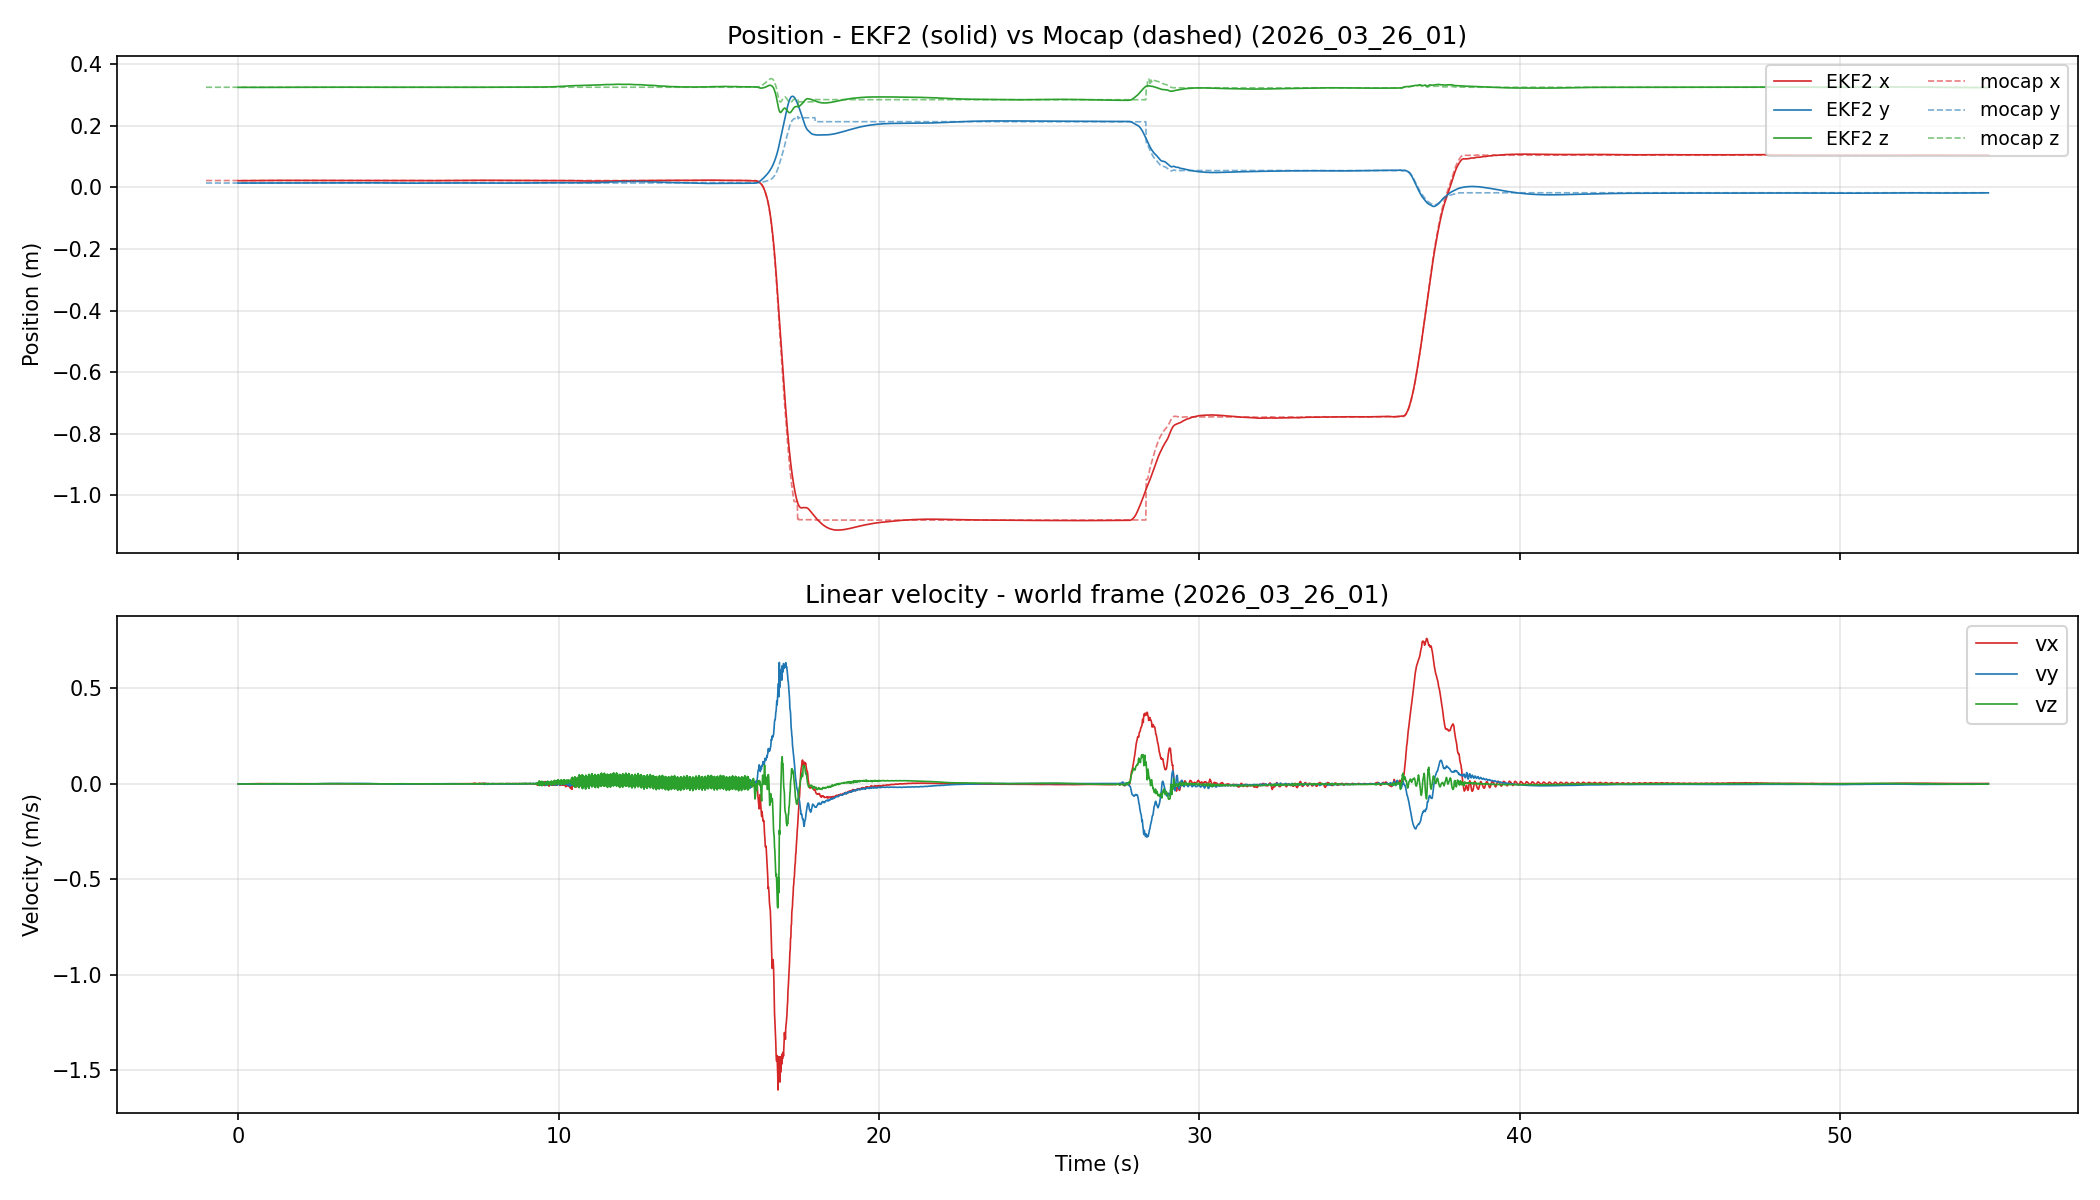
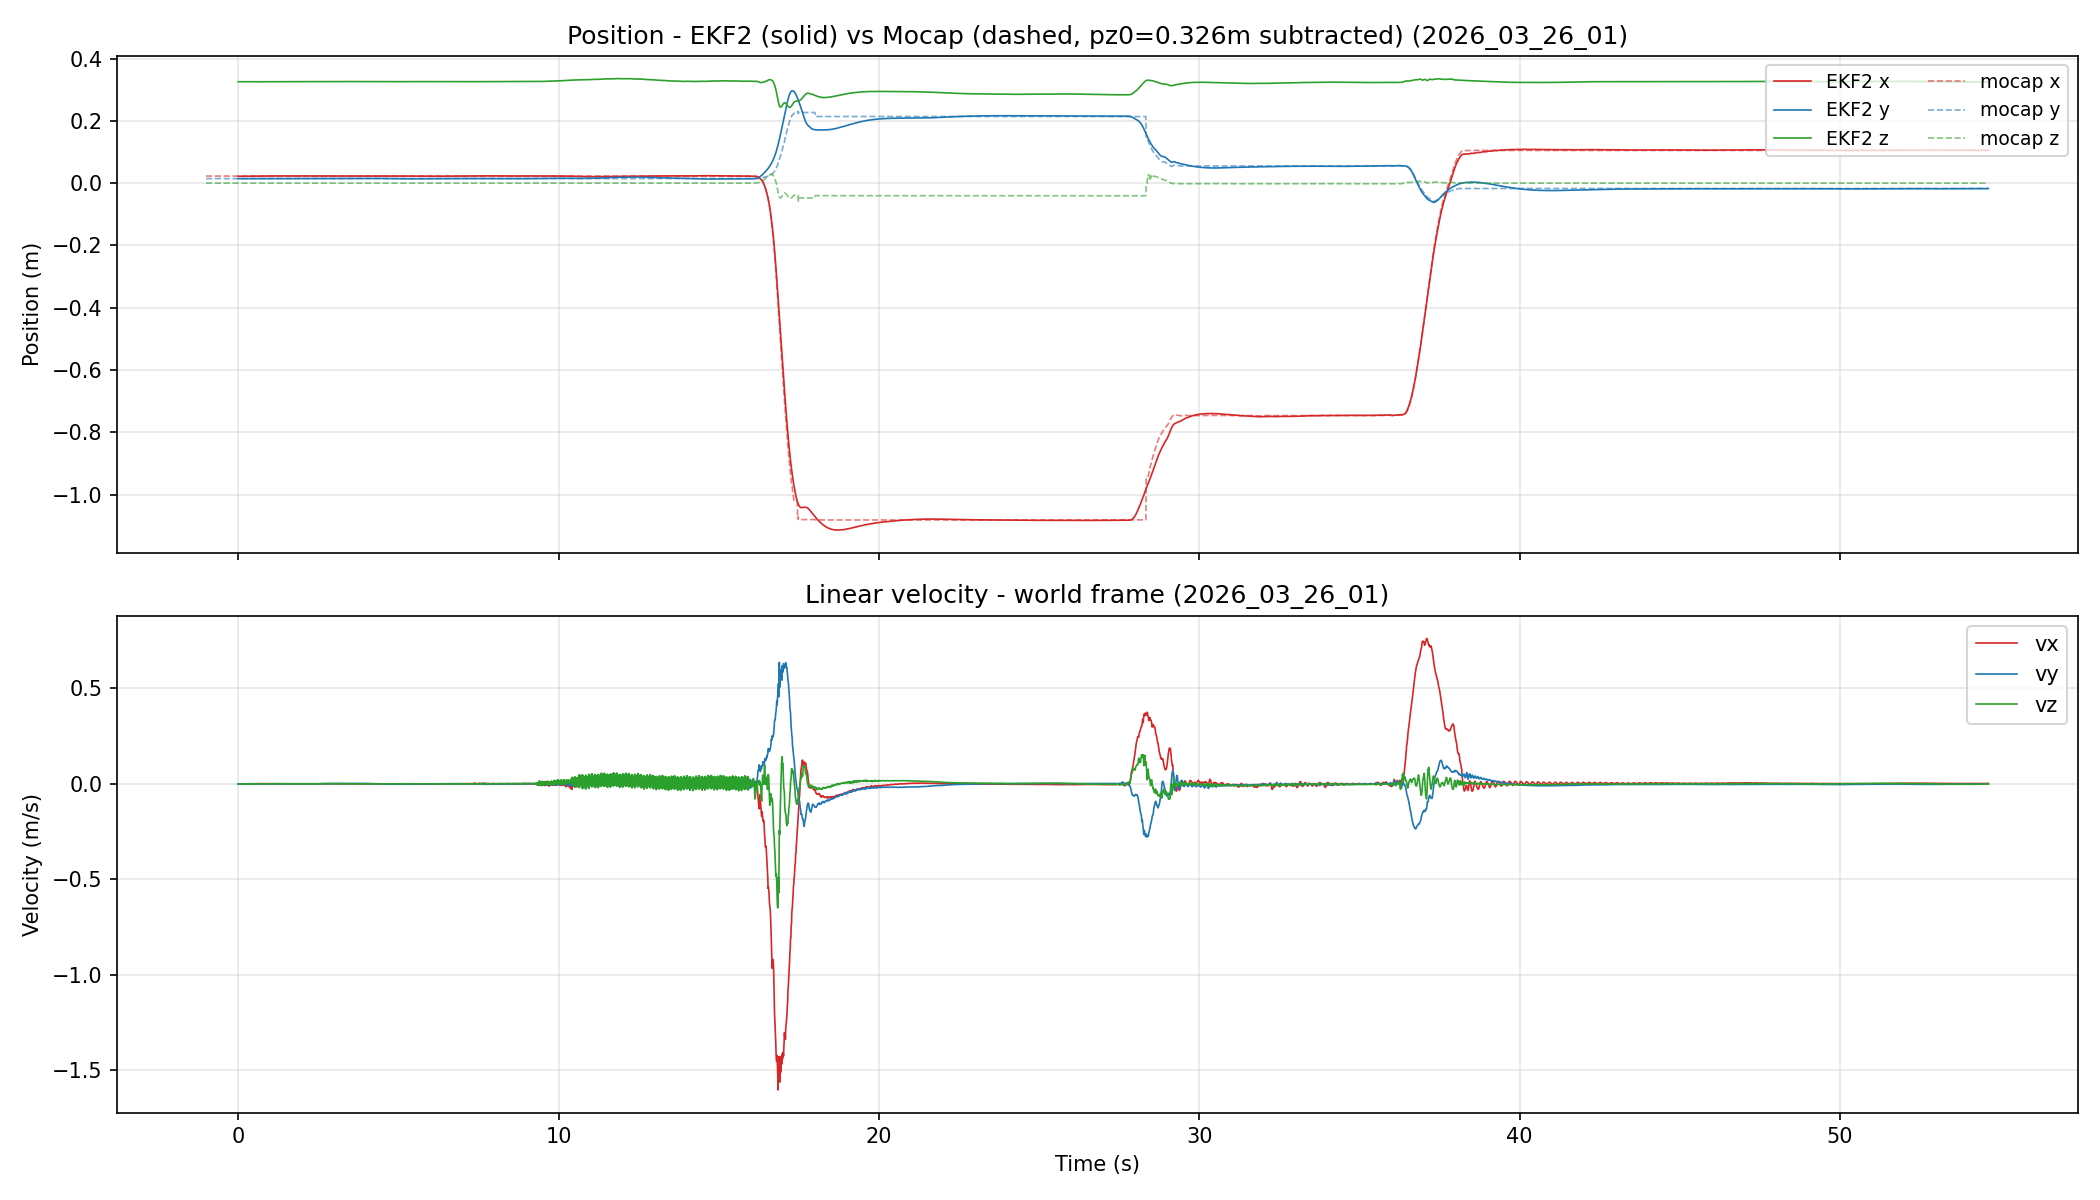
Update 03/26 plots: subtract mocap pz offset, add cmd+RPY combined, add HGDO
- Position: mocap pz initial offset subtracted (~0.326m)
- cmd_moments_rpy: cmd_raw moments + roll/pitch/yaw (EKF2 vs mocap) in 4 rows
- HGDO: disturbance force and torque estimates
- Removed separate rpy and cmd_rpm_moments plots

https://claude.ai/code/session_015hDTXF7MWidPDJrsc9iZ1y

diff --git a/bag_folder/plot_2026_03_26.py b/bag_folder/plot_2026_03_26.py
@@ -73,6 +73,18 @@ def parse_pose_stamped(data):
     return t, px, py, pz, qx, qy, qz, qw
 
 
+def parse_wrench_stamped(data):
+    """Parse WrenchStamped CDR2 → (t, fx, fy, fz, tx, ty, tz).
+    frame_id='base_link' (10 bytes), force at off=28, torque at off=52.
+    """
+    sec = struct.unpack_from('<I', data, 4)[0]
+    nsec = struct.unpack_from('<I', data, 8)[0]
+    fx, fy, fz = struct.unpack_from('<3d', data, 28)
+    tx, ty, tz = struct.unpack_from('<3d', data, 52)
+    t = sec + nsec * 1e-9
+    return t, fx, fy, fz, tx, ty, tz
+
+
 def load_bag(db_path):
     conn = sqlite3.connect(db_path)
     c = conn.cursor()
@@ -145,13 +157,30 @@ def load_bag(db_path):
         rpm_Mx.append(u[1]); rpm_My.append(u[2]); rpm_Mz.append(u[3])
         rpm_raw.append(rpms.copy())
 
+    # ── hgdo wrench ──
+    tid = topics['/hgdo/wrench']
+    c.execute('SELECT data FROM messages WHERE topic_id=? ORDER BY timestamp', (tid,))
+    hgdo_t, hgdo_fx, hgdo_fy, hgdo_fz = [], [], [], []
+    hgdo_tx, hgdo_ty, hgdo_tz = [], [], []
+    for data, in c.fetchall():
+        t, fx, fy, fz, tx, ty, tz = parse_wrench_stamped(data)
+        hgdo_t.append(t)
+        hgdo_fx.append(fx); hgdo_fy.append(fy); hgdo_fz.append(fz)
+        hgdo_tx.append(tx); hgdo_ty.append(ty); hgdo_tz.append(tz)
+
     conn.close()
 
     # Convert to arrays and align time
     odom_t = np.array(odom_t); mocap_t = np.array(mocap_t)
     cmd_t = np.array(cmd_t); rpm_t = np.array(rpm_t)
+    hgdo_t = np.array(hgdo_t)
     t0 = odom_t[0]
-    odom_t -= t0; mocap_t -= t0; cmd_t -= t0; rpm_t -= t0
+    odom_t -= t0; mocap_t -= t0; cmd_t -= t0; rpm_t -= t0; hgdo_t -= t0
+
+    # Subtract initial mocap pz offset
+    mocap_pz = np.array(mocap_pz)
+    mocap_pz_offset = mocap_pz[0]
+    mocap_pz = mocap_pz - mocap_pz_offset
 
     return dict(
         odom_t=odom_t,
@@ -160,13 +189,17 @@ def load_bag(db_path):
         ekf_roll=np.array(ekf_roll), ekf_pitch=np.array(ekf_pitch), ekf_yaw=np.array(ekf_yaw),
         ekf_wx=np.array(ekf_wx), ekf_wy=np.array(ekf_wy), ekf_wz=np.array(ekf_wz),
         mocap_t=mocap_t,
-        mocap_px=np.array(mocap_px), mocap_py=np.array(mocap_py), mocap_pz=np.array(mocap_pz),
+        mocap_px=np.array(mocap_px), mocap_py=np.array(mocap_py), mocap_pz=mocap_pz,
+        mocap_pz_offset=mocap_pz_offset,
         mocap_roll=np.array(mocap_roll), mocap_pitch=np.array(mocap_pitch), mocap_yaw=np.array(mocap_yaw),
         cmd_t=cmd_t, cmd_F=np.array(cmd_F),
         cmd_Mx=np.array(cmd_Mx), cmd_My=np.array(cmd_My), cmd_Mz=np.array(cmd_Mz),
         rpm_t=rpm_t, rpm_F=np.array(rpm_F),
         rpm_Mx=np.array(rpm_Mx), rpm_My=np.array(rpm_My), rpm_Mz=np.array(rpm_Mz),
         rpm_raw=np.array(rpm_raw),
+        hgdo_t=hgdo_t,
+        hgdo_fx=np.array(hgdo_fx), hgdo_fy=np.array(hgdo_fy), hgdo_fz=np.array(hgdo_fz),
+        hgdo_tx=np.array(hgdo_tx), hgdo_ty=np.array(hgdo_ty), hgdo_tz=np.array(hgdo_tz),
     )
 
 
@@ -174,7 +207,7 @@ def plot_bag(bag_name, db_path):
     d = load_bag(db_path)
     base = f'/home/user/drone_control_pkgs/bag_folder/{bag_name}'
 
-    # ── 1. Position + Velocity (EKF2 + mocap position) ──
+    # ── 1. Position + Velocity (EKF2 + mocap, mocap pz offset subtracted) ──
     fig, axes = plt.subplots(2, 1, figsize=(14, 8), sharex=True)
     ax = axes[0]
     ax.plot(d['odom_t'], d['ekf_px'], 'tab:red', lw=0.8, label='EKF2 x')
@@ -184,7 +217,7 @@ def plot_bag(bag_name, db_path):
     ax.plot(d['mocap_t'], d['mocap_py'], 'tab:blue', lw=0.8, ls='--', alpha=0.6, label='mocap y')
     ax.plot(d['mocap_t'], d['mocap_pz'], 'tab:green', lw=0.8, ls='--', alpha=0.6, label='mocap z')
     ax.set_ylabel('Position (m)')
-    ax.set_title(f'Position - EKF2 (solid) vs Mocap (dashed) ({bag_name})')
+    ax.set_title(f'Position - EKF2 (solid) vs Mocap (dashed, pz0={d["mocap_pz_offset"]:.3f}m subtracted) ({bag_name})')
     ax.legend(loc='upper right', fontsize=9, ncol=2)
     ax.grid(True, alpha=0.3)
 
@@ -203,28 +236,9 @@ def plot_bag(bag_name, db_path):
     plt.savefig(out, dpi=150); plt.close()
     print(f'Saved: {out}')
 
-    # ── 2. RPY (EKF2 + mocap) ──
-    fig, axes = plt.subplots(3, 1, figsize=(14, 9), sharex=True)
-    for i, (label, ekf_key, mocap_key) in enumerate([
-        ('Roll', 'ekf_roll', 'mocap_roll'),
-        ('Pitch', 'ekf_pitch', 'mocap_pitch'),
-        ('Yaw', 'ekf_yaw', 'mocap_yaw'),
-    ]):
-        ax = axes[i]
-        ax.plot(d['odom_t'], d[ekf_key], 'tab:blue', lw=0.8, label='EKF2')
-        ax.plot(d['mocap_t'], d[mocap_key], 'tab:red', lw=0.8, alpha=0.7, label='Mocap')
-        ax.set_ylabel(f'{label} (deg)')
-        ax.set_title(f'{label} ({bag_name})')
-        ax.legend(loc='upper right', fontsize=10)
-        ax.grid(True, alpha=0.3)
-    axes[2].set_xlabel('Time (s)')
-    plt.tight_layout()
-    out = f'{base}_rpy.png'
-    plt.savefig(out, dpi=150); plt.close()
-    print(f'Saved: {out}')
+    # ── 2. cmd_raw moments + RPY (4 rows) ──
+    fig, axes = plt.subplots(4, 1, figsize=(14, 12), sharex=True)
 
-    # ── 3. cmd_raw moments + actual RPM moments ──
-    fig, axes = plt.subplots(2, 1, figsize=(14, 7), sharex=True)
     ax = axes[0]
     ax.plot(d['cmd_t'], d['cmd_Mx'], 'tab:red', lw=0.8, label='Mx (roll)')
     ax.plot(d['cmd_t'], d['cmd_My'], 'tab:blue', lw=0.8, label='My (pitch)')
@@ -234,22 +248,26 @@ def plot_bag(bag_name, db_path):
     ax.legend(loc='upper right', fontsize=10)
     ax.grid(True, alpha=0.3)
 
-    ax = axes[1]
-    ax.plot(d['rpm_t'], d['rpm_Mx'], 'tab:red', lw=0.8, label='Mx (roll)')
-    ax.plot(d['rpm_t'], d['rpm_My'], 'tab:blue', lw=0.8, label='My (pitch)')
-    ax.plot(d['rpm_t'], d['rpm_Mz'], 'tab:green', lw=0.8, label='Mz (yaw)')
-    ax.set_ylabel('Moment (Nm)')
-    ax.set_xlabel('Time (s)')
-    ax.set_title(f'Moments from actual RPM ({bag_name})')
-    ax.legend(loc='upper right', fontsize=10)
-    ax.grid(True, alpha=0.3)
+    for i, (label, ekf_key, mocap_key) in enumerate([
+        ('Roll', 'ekf_roll', 'mocap_roll'),
+        ('Pitch', 'ekf_pitch', 'mocap_pitch'),
+        ('Yaw', 'ekf_yaw', 'mocap_yaw'),
+    ]):
+        ax = axes[i + 1]
+        ax.plot(d['odom_t'], d[ekf_key], 'tab:blue', lw=0.8, label='EKF2')
+        ax.plot(d['mocap_t'], d[mocap_key], 'tab:red', lw=0.8, alpha=0.7, label='Mocap')
+        ax.set_ylabel(f'{label} (deg)')
+        ax.set_title(f'{label} ({bag_name})')
+        ax.legend(loc='upper right', fontsize=10)
+        ax.grid(True, alpha=0.3)
+    axes[3].set_xlabel('Time (s)')
 
     plt.tight_layout()
-    out = f'{base}_cmd_rpm_moments.png'
+    out = f'{base}_cmd_moments_rpy.png'
     plt.savefig(out, dpi=150); plt.close()
     print(f'Saved: {out}')
 
-    # ── 4. Actual RPM per motor ──
+    # ── 3. Actual RPM per motor ──
     fig, ax = plt.subplots(1, 1, figsize=(14, 5))
     colors = ['tab:red', 'tab:orange', 'tab:olive', 'tab:green', 'tab:blue', 'tab:purple']
     for i in range(6):
@@ -261,6 +279,32 @@ def plot_bag(bag_name, db_path):
     ax.grid(True, alpha=0.3)
     plt.tight_layout()
     out = f'{base}_actual_rpm.png'
+    plt.savefig(out, dpi=150); plt.close()
+    print(f'Saved: {out}')
+
+    # ── 4. HGDO (disturbance observer) ──
+    fig, axes = plt.subplots(2, 1, figsize=(14, 7), sharex=True)
+    ax = axes[0]
+    ax.plot(d['hgdo_t'], d['hgdo_fx'], 'tab:red', lw=0.8, label='fx')
+    ax.plot(d['hgdo_t'], d['hgdo_fy'], 'tab:blue', lw=0.8, label='fy')
+    ax.plot(d['hgdo_t'], d['hgdo_fz'], 'tab:green', lw=0.8, label='fz')
+    ax.set_ylabel('Force (N)')
+    ax.set_title(f'HGDO estimated disturbance force ({bag_name})')
+    ax.legend(loc='upper right', fontsize=10)
+    ax.grid(True, alpha=0.3)
+
+    ax = axes[1]
+    ax.plot(d['hgdo_t'], d['hgdo_tx'], 'tab:red', lw=0.8, label='tx (roll)')
+    ax.plot(d['hgdo_t'], d['hgdo_ty'], 'tab:blue', lw=0.8, label='ty (pitch)')
+    ax.plot(d['hgdo_t'], d['hgdo_tz'], 'tab:green', lw=0.8, label='tz (yaw)')
+    ax.set_ylabel('Torque (Nm)')
+    ax.set_xlabel('Time (s)')
+    ax.set_title(f'HGDO estimated disturbance torque ({bag_name})')
+    ax.legend(loc='upper right', fontsize=10)
+    ax.grid(True, alpha=0.3)
+
+    plt.tight_layout()
+    out = f'{base}_hgdo.png'
     plt.savefig(out, dpi=150); plt.close()
     print(f'Saved: {out}')
 
